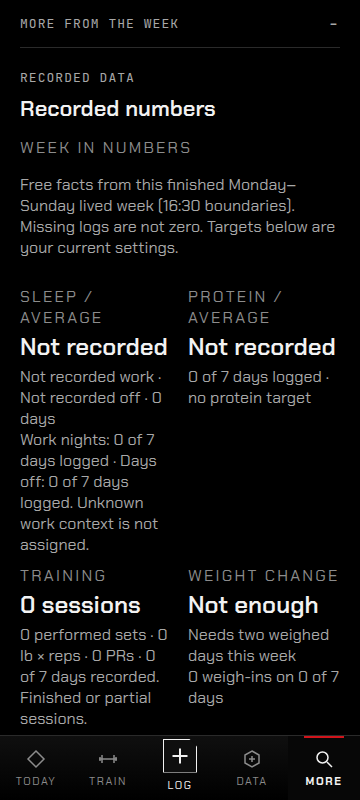
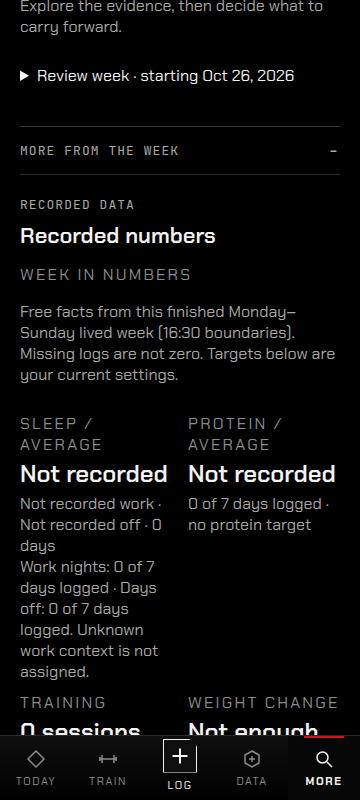
Apply LIFE section pattern to weekly review

Changed region(s): [[0.0306, 0.0, 0.9472, 0.9375], [0.7333, 0.0625, 0.825, 0.125]]

diff --git a/tests/browser/MonthlyReview.test.tsx b/tests/browser/MonthlyReview.test.tsx
@@ -64,7 +64,8 @@ for (const width of [320, 360, 412]) it(`opens the monthly review from TODAY wit
   await (await commandResult(screen, "REVIEW")).click();
   await openDetailedReviews(screen);
   const review = screen.getByRole("region", { name: "Weekly review", exact: true });
-  await expect.element(review.getByText("MONTHLY REVIEW · LATEST COMPLETED WEEK", { exact: true })).toBeVisible();
+  await expect.element(review.getByText("MONTHLY REVIEW · WHAT MATTERED", { exact: true })).toBeVisible();
+  await review.getByText("More from the week", { exact: true }).click();
   const body = screen.getByRole("region", { name: "BODY COMPOSITION · LAST 4 WEEKS" });
   await expect.element(body.getByText("Oct 19 – Nov 15. First and last recorded values. Readings only; you draw the conclusions.", { exact: true })).toBeVisible();
   await expect.element(body.getByText("-2.5 lb", { exact: true })).toBeVisible();
@@ -95,7 +96,8 @@ it("keeps ordinary weeks weekly and says when the monthly review comes", async (
   await (await commandResult(screen, "REVIEW")).click();
   await openDetailedReviews(screen);
   const review = screen.getByRole("region", { name: "Weekly review", exact: true });
-  await expect.element(review.getByText("WEEKLY REVIEW · LATEST COMPLETED WEEK", { exact: true })).toBeVisible();
+  await expect.element(review.getByText("WEEKLY REVIEW · WHAT MATTERED", { exact: true })).toBeVisible();
+  await review.getByText("More from the week", { exact: true }).click();
   await expect.element(review.getByText("Monthly review in 3 weeks. It adds body composition: weight, measurements and photos.", { exact: true })).toBeVisible();
   expect(document.querySelector(".monthly-body")).toBeNull();
 });
@@ -105,6 +107,7 @@ it("never shows a newly hidden photo while the re-read is pending, then shows on
   const screen = await render(<App />);
   await (await commandResult(screen, "REVIEW")).click();
   await openDetailedReviews(screen);
+  await screen.getByRole("region", { name: "Weekly review", exact: true }).getByText("More from the week", { exact: true }).click();
   await expect.element(screen.getByRole("figure", { name: "Front photos, Oct 1 and Nov 10" })).toBeVisible();
   await screen.getByRole("button", { name: "TODAY", exact: true }).click();
   await hideProgressPhoto(later.id);
@@ -130,6 +133,7 @@ it("drops the cached body panel when a re-read fails, so a newly hidden photo is
   const screen = await render(<App />);
   await (await commandResult(screen, "REVIEW")).click();
   await openDetailedReviews(screen);
+  await screen.getByRole("region", { name: "Weekly review", exact: true }).getByText("More from the week", { exact: true }).click();
   await expect.element(screen.getByRole("figure", { name: "Front photos, Oct 1 and Nov 10" })).toBeVisible();
   await screen.getByRole("button", { name: "TODAY", exact: true }).click();
   await hideProgressPhoto(later.id);

diff --git a/tests/browser/WeeklyReviewLoop.test.tsx b/tests/browser/WeeklyReviewLoop.test.tsx
@@ -36,8 +36,8 @@ for (const width of [320, 360, 412]) it(`saves a note/focus via TODAY→Review, 
   await (await commandResult(screen, "REVIEW")).click();
   await openDetailedReviews(screen);
   const panel = screen.getByRole("region", { name: "Weekly review", exact: true });
-  // The Weekly Review dashboard (2026-10-18) shows the week's logged protein in its headline.
-  await expect.element(panel.getByText(/^1 of 7 days logged/)).toBeVisible();
+  // The weekly lead names how many days have completed records without leading with a scorecard.
+  await expect.element(panel.getByText(/^Monday through Sunday\. 1 of 7 days has completed records\./)).toBeVisible();
   await panel.getByRole("textbox", { name: "What stood out? (optional)", exact: true }).fill("Protein logging was easier on shift.");
   await panel.getByRole("combobox", { name: /Your focus for the week starting/ }).selectOptions('CUSTOM');
   await panel.getByRole("textbox", { name: "Written focus", exact: true }).fill("Eat before I leave for work.");

diff --git a/src/ui/screens/review/WeeklyDashboard.tsx b/src/ui/screens/review/WeeklyDashboard.tsx
@@ -116,7 +116,7 @@ export function WeeklyDashboard({ active = true, onOpenHistory }: { active?: boo
 
   return (
     <section className="weekly-dashboard" aria-label="Weekly review">
-      <Section id="weekly-mattered" eyebrow={monthlyReview?.monthly ? "MONTHLY REVIEW" : "WHAT MATTERED"} title={`${longDate(week.start)} — ${longDate(lastDayOf(week))}`} className="weekly-dashboard__lead">
+      <Section id="weekly-mattered" eyebrow={`${monthlyReview?.monthly ? "MONTHLY REVIEW" : "WEEKLY REVIEW"} · WHAT MATTERED`} title={`${longDate(week.start)} — ${longDate(lastDayOf(week))}`} className="weekly-dashboard__lead">
         <p className="meta">Monday through Sunday. {plural(headline.recordedDays, "of 7 days has", "of 7 days have")} completed records.</p>
         <div className="weekly-dashboard__nav">
           <button type="button" className="btn-secondary" disabled={!data.hasEarlier} onClick={() => setWeeksBack((n) => n + 1)}>← PREVIOUS WEEK</button>

diff --git a/tests/browser/WeeklyDashboard.test.tsx b/tests/browser/WeeklyDashboard.test.tsx
@@ -83,7 +83,7 @@ describe("Weekly Review dashboard", () => {
   it("leads with what mattered and what's next, with detailed evidence folded", async () => {
     await seedWeek();
     const { dashboard } = await renderReview(vi.fn(), false);
-    await expect.element(dashboard.getByText("WHAT MATTERED", { exact: true })).toBeVisible();
+    await expect.element(dashboard.getByText("WEEKLY REVIEW · WHAT MATTERED", { exact: true })).toBeVisible();
     await expect.element(dashboard.getByText("WHAT'S NEXT", { exact: true })).toBeVisible();
     await expect.element(dashboard.getByRole("heading", { name: "Your focus" })).toBeVisible();
     await expect.element(dashboard.getByText("2 strength sessions on 2 days.", { exact: true })).toBeVisible();

diff --git a/docs/agent/CURRENT_CHECKPOINT.md b/docs/agent/CURRENT_CHECKPOINT.md
@@ -1,17 +1,27 @@
-# LIFE-PATTERN-001 — in progress (2026-11-05)
+# LIFE-PATTERN-001 Step 5 — Weekly Review (in progress, 2026-11-06)
 
-- Objective: apply the YOUR LIFE section pattern across BEYOND, presentation only. Gavin approved it
-  ("Go", then "Plan confirmed" to the Builder directly). Builder Claude Code; brief and guide:
-  [LIFE-PATTERN-001.md](LIFE-PATTERN-001.md). Start `dd191d83` (#423).
-- Rollout, one PR each: 1 primitives + guide (branch `ccr-90736806-z9op9b`) → 2 TRAIN → 3 BODY →
-  4 MORE and Plans → 5 weekly review → 6 TODAY (the order and the Engine's next action stay unchanged).
-- Step 1 merged as #424 (shared `Section` primitives, `readSection`, guide, Decision Register entry).
-- Step 2 TRAIN merged as #425.
-- Step 3 BODY: "Not logged" instead of 0 for empty readings; weight leads PROGRESS. Review and CI pending.
-- Steps 4–6 (Plans, weekly review, TODAY) are prepared locally on the Builder's machine and follow.
-- Open non-blocking follow-up from the #423 review: TODAY imports all of wholeLife.css for one button.
-- CI risk: `playwright install --with-deps` can stall on the Ubuntu mirror with no job timeout
-  (seen twice on 2026-11-05). Suggest timeout-minutes plus a browser cache; needs owner OK.
+- Objective: apply the YOUR LIFE section pattern to MORE → REVIEW’s weekly dashboard only; presentation
+  only. Gavin approved the rollout ("Go", then "Plan confirmed" to the Builder directly). Builder
+  Claude Code; [brief and guide](LIFE-PATTERN-001.md); this is one PR for Step 5 against `master`.
+- Rollout: Steps 1–4 merged as #424–#427 (shared `Section` primitives, TRAIN, BODY, MORE and Plans).
+  Step 6 (TODAY) has **not started**.
+- Branch: `copilot/life-pattern-001-step-5-weekly-review`; starting master was #427 at
+  `d2aed8b`. PR creation is next; no PR link or review is claimed yet.
+- Implemented: WHAT MATTERED and WHAT’S NEXT lead the weekly dashboard; deeper evidence is under
+  “More from the week.” Empty and failed reads remain distinct. No Engine, schema, event, backup,
+  primary-tab, recommendation-authority, or TODAY-order change.
+- Reuse: shared `Section`, `SectionEmpty`, `SectionUnavailable`, and disclosure patterns from Steps
+  1–4. Own: weekly evidence and next-focus copy using existing queries and writes. Build from
+  scratch: none.
+- 360 × 800 Chromium before/after captures are in
+  [the screenshot evidence folder](../screenshots/life-pattern-001/README.md).
+- Verification: focused WeeklyDashboard 8/8, MonthlyReview 6/6, WeeklyReviewLoop 13/13; typecheck
+  and production build pass. Architecture check passes (457 files). Full verify: 3 files / 6 tests
+  fail in unrelated DailyExperience (3 viewport thresholds), Drop0FieldFixes (expects `0 oz`), and
+  MoreScreen (duplicate Settings heading); 431 files / 3,526 tests pass, 1 file / 2 tests skipped.
+  The build also completed independently; its existing large-chunk warning remains.
+- Next: finish exact-head review, open the single Step 5 PR, obtain independent review and green
+  required CI, then request Gavin’s merge approval. Do not start Step 6.
 
 ---
 
